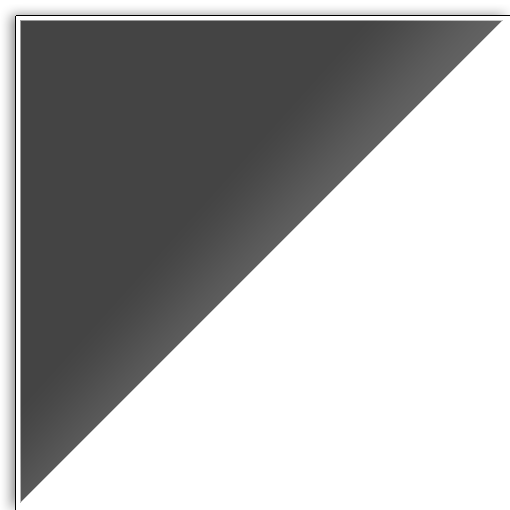
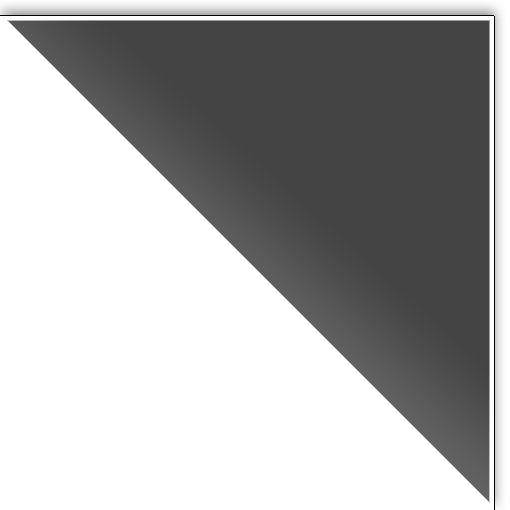
Eselsohr oben und Wordcloud Markierung gefixt
TODO: Swipe und Pinch in Bildergalerie

diff --git a/Testprojekt/App2/App2/bin/Debug/AppX/js/main.js b/Testprojekt/App2/App2/bin/Debug/AppX/js/main.js
@@ -99,6 +99,31 @@ function interactions() {
     //    direction: Hammer.DIRECTION_ALL
     //});
     //hammer2.on("swipe", stepback);
+
+    var myElement = document.getElementById('lightbox');
+
+    // create a simple instance
+    // by default, it only adds horizontal recognizers
+    var mc = new Hammer(myElement);
+    var pinch = new Hammer.Pinch();
+
+    mc.on("pinch", function (ev) {
+        Lightbox.prototype.end();
+    });
+
+    var myElement2 = document.getElementById('lightbox');
+
+    // create a simple instance
+    // by default, it only adds horizontal recognizers
+    var mc2 = new Hammer(myElement2);
+    var swipeleft = new Hammer.Swipe();
+
+    mc.on("swipeleft", function (ev) {
+        myElement2.onmouseover = function () {
+            myElement2.style.transform="rotateY(-180deg)";
+                myELement2.style.zIndex=" 11";
+        }
+    });
 }
 
 function swiped(event) {
@@ -114,6 +139,10 @@ function swiped(event) {
             lastPosX = elem.offsetLeft;
             lastPosY = elem.offsetTop;
         }
+        //clear overlay canvas
+        //var canvas = document.getElementById("word_cloud_overlay");
+        //var context = canvas.getContext("2d");
+        //context.clearRect(0, 0, 1100, 1000);
 
         // we simply need to determine where the x,y of this
         // object is relative to where it's "last" known position is
@@ -133,7 +162,7 @@ function swiped(event) {
 
        //change height and width
        $("#word_cloud").css({ "width": newWidth, "height": newHeight }); 
-      
+       $("#word_cloud_overlay").css({ "width": "0", "height": "0" }); 
     } else {
         //add alert
         //You first have to click on an ikonographie
@@ -182,6 +211,7 @@ function stepback(event) {
 
     //change height and width
     $("#word_cloud").css({ "width": newWidth, "height": newHeight });
+    $("#word_cloud_overlay").css({ "width": "1100", "height": "1000" });
 }
 
 function loadWordcloud(event) {
@@ -202,11 +232,6 @@ function loadWordcloud(event) {
 }
 
 function getPictures(clickedIkono) {
-    //clear overlay canvas
-    var canvas = document.getElementById("word_cloud_overlay");
-    var context = canvas.getContext("2d");
-    context.clearRect(0, 0, 1100, 1000);
-
     var myElement = document.getElementById('pinterest');
     myElement.innerHTML = "";
 

diff --git a/Testprojekt/App2/App2/js/main.js b/Testprojekt/App2/App2/js/main.js
@@ -99,6 +99,31 @@ function interactions() {
     //    direction: Hammer.DIRECTION_ALL
     //});
     //hammer2.on("swipe", stepback);
+
+    var myElement = document.getElementById('lightbox');
+
+    // create a simple instance
+    // by default, it only adds horizontal recognizers
+    var mc = new Hammer(myElement);
+    var pinch = new Hammer.Pinch();
+
+    mc.on("pinch", function (ev) {
+        Lightbox.prototype.end();
+    });
+
+    var myElement2 = document.getElementById('lightbox');
+
+    // create a simple instance
+    // by default, it only adds horizontal recognizers
+    var mc2 = new Hammer(myElement2);
+    var swipeleft = new Hammer.Swipe();
+
+    mc.on("swipeleft", function (ev) {
+        myElement2.onmouseover = function () {
+            myElement2.style.transform="rotateY(-180deg)";
+                myELement2.style.zIndex=" 11";
+        }
+    });
 }
 
 function swiped(event) {
@@ -114,6 +139,10 @@ function swiped(event) {
             lastPosX = elem.offsetLeft;
             lastPosY = elem.offsetTop;
         }
+        //clear overlay canvas
+        //var canvas = document.getElementById("word_cloud_overlay");
+        //var context = canvas.getContext("2d");
+        //context.clearRect(0, 0, 1100, 1000);
 
         // we simply need to determine where the x,y of this
         // object is relative to where it's "last" known position is
@@ -133,7 +162,7 @@ function swiped(event) {
 
        //change height and width
        $("#word_cloud").css({ "width": newWidth, "height": newHeight }); 
-      
+       $("#word_cloud_overlay").css({ "width": "0", "height": "0" }); 
     } else {
         //add alert
         //You first have to click on an ikonographie
@@ -182,6 +211,7 @@ function stepback(event) {
 
     //change height and width
     $("#word_cloud").css({ "width": newWidth, "height": newHeight });
+    $("#word_cloud_overlay").css({ "width": "1100", "height": "1000" });
 }
 
 function loadWordcloud(event) {
@@ -202,11 +232,6 @@ function loadWordcloud(event) {
 }
 
 function getPictures(clickedIkono) {
-    //clear overlay canvas
-    var canvas = document.getElementById("word_cloud_overlay");
-    var context = canvas.getContext("2d");
-    context.clearRect(0, 0, 1100, 1000);
-
     var myElement = document.getElementById('pinterest');
     myElement.innerHTML = "";
 

diff --git a/Testprojekt/App2/App2/bin/Debug/AppX/css/default.css b/Testprojekt/App2/App2/bin/Debug/AppX/css/default.css
@@ -8,11 +8,7 @@
     perspective: 1000px;
     z-index: 11;
 }
-	/* flip the pane when hovered */
-    .flip-container:hover .flipper, .flip-container.hover .flipper {
-        transform: rotateY(-180deg);
-        z-index: 11;
-    }
+	
 
 .flip-container, .front, .back {
 	width: 100%;

diff --git a/Testprojekt/App2/App2/css/default.css b/Testprojekt/App2/App2/css/default.css
@@ -8,11 +8,7 @@
     perspective: 1000px;
     z-index: 11;
 }
-	/* flip the pane when hovered */
-    .flip-container:hover .flipper, .flip-container.hover .flipper {
-        transform: rotateY(-180deg);
-        z-index: 11;
-    }
+	
 
 .flip-container, .front, .back {
 	width: 100%;
